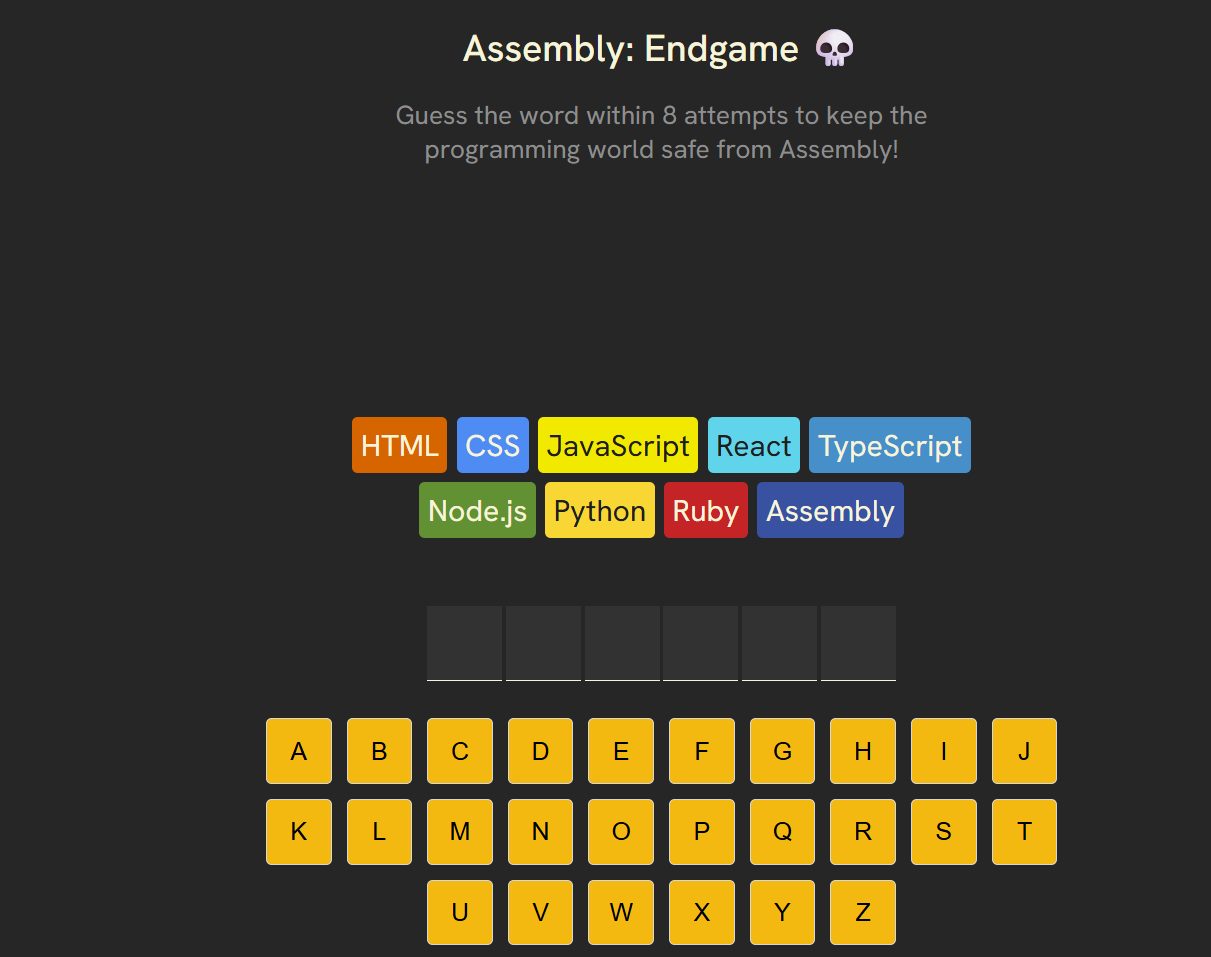
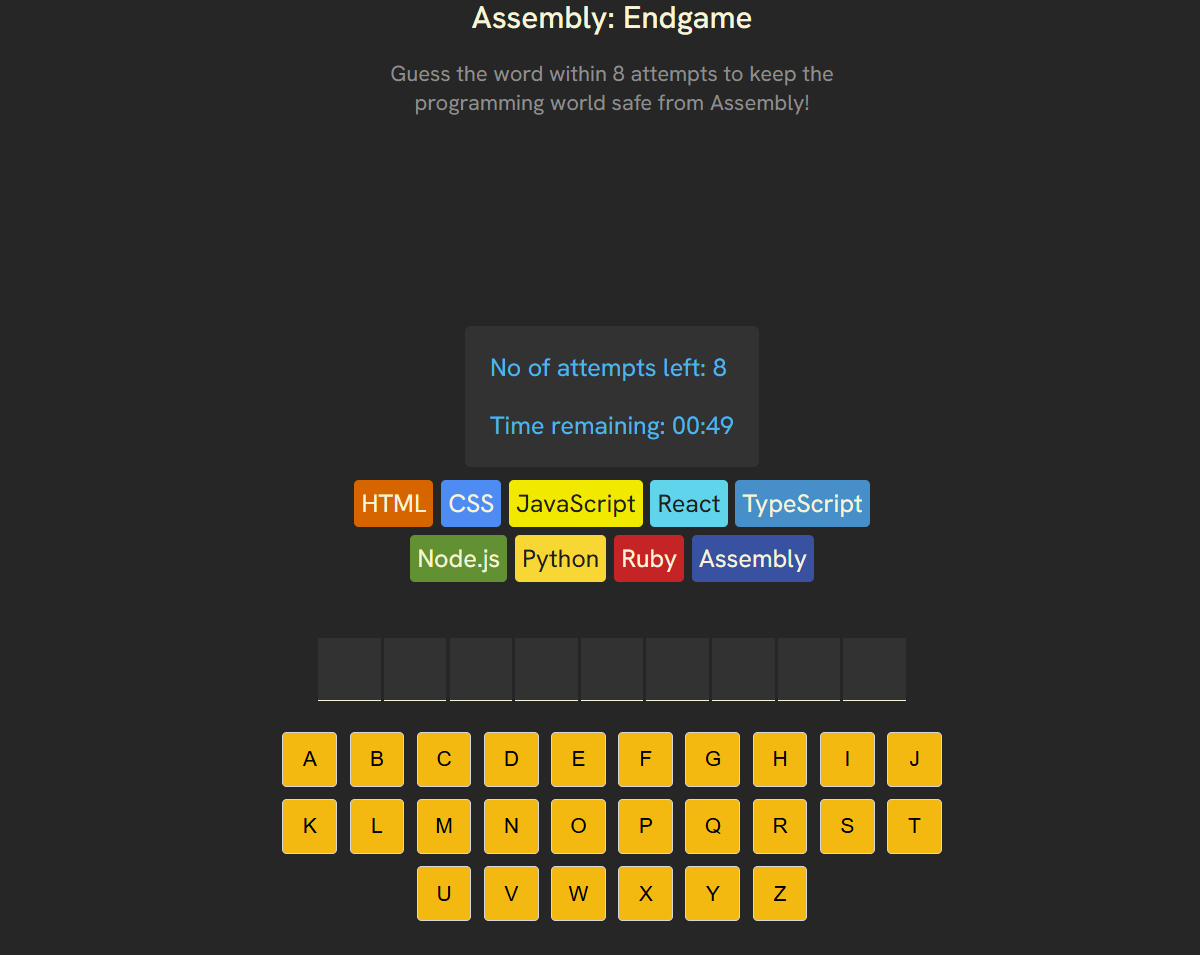
added new features

diff --git a/App.jsx b/App.jsx
@@ -1,27 +1,19 @@
-import { useState } from "react"
+import { useState, useEffect } from "react"
 import { clsx } from "clsx"
 import { languages } from "./languages"
 import { getFarewellText, getRandomWord } from "./utils"
 import Confetti from "react-confetti"
 
-/**
- * Backlog:
- * 
- * ✅ Farewell messages in status section
- * ✅ Disable the keyboard when the game is over
- * ✅ Fix a11y issues
- * ✅ Choose a random word from a list of words
- * ✅ Make the New Game button reset the game
- * ✅ Reveal what the word was if the user loses the game
- * ✅ Confetti drop when the user wins
- * 
- * Challenge: 🎊🎊🎊🎊🎊
- */
+
 
 export default function AssemblyEndgame() {
+    const TOTAL_TIME = 1 * 60;
+
     // State values
     const [currentWord, setCurrentWord] = useState(() => getRandomWord())
     const [guessedLetters, setGuessedLetters] = useState([])
+    const [remainingTime, setRemainingTime] = useState(TOTAL_TIME);
+    const [gameOver, setGameOver]  = useState(false);
 
     // Derived values
     const numGuessesLeft = languages.length - 1
@@ -29,13 +21,35 @@ export default function AssemblyEndgame() {
         guessedLetters.filter(letter => !currentWord.includes(letter)).length
     const isGameWon =
         currentWord.split("").every(letter => guessedLetters.includes(letter))
-    const isGameLost = wrongGuessCount >= numGuessesLeft
+    const isGameLost = wrongGuessCount >= numGuessesLeft || gameOver;
     const isGameOver = isGameWon || isGameLost
     const lastGuessedLetter = guessedLetters[guessedLetters.length - 1]
     const isLastGuessIncorrect = lastGuessedLetter && !currentWord.includes(lastGuessedLetter)
 
     // Static values
     const alphabet = "abcdefghijklmnopqrstuvwxyz"
+    
+
+ useEffect(() => {
+    setRemainingTime(TOTAL_TIME);
+    setGameOver(false);
+
+    const id = setInterval(() => {
+      setRemainingTime(prev => {
+        if (prev <= 1) {
+          clearInterval(id);
+          setGameOver(true);       // <-- mark the game over in state
+          return 0;
+        }
+        return prev - 1;
+      });
+    }, 1000);
+
+    return () => clearInterval(id);
+  }, [currentWord]); 
+            
+const minutes = String(Math.floor(remainingTime / 60)).padStart(2, "0");
+const seconds = String(remainingTime % 60).padStart(2, "0");
 
     function addGuessedLetter(letter) {
         setGuessedLetters(prevLetters =>
@@ -148,7 +162,7 @@ export default function AssemblyEndgame() {
                     />
             }
             <header>
-                <h1>Assembly: Endgame 💀</h1>
+                <h1>Assembly: Endgame </h1>
                 <p>Guess the word within 8 attempts to keep the
                 programming world safe from Assembly!</p>
             </header>
@@ -160,6 +174,11 @@ export default function AssemblyEndgame() {
             >
                 {renderGameStatus()}
             </section>
+
+            <section className="attempts">
+                <p>No of attempts left: {numGuessesLeft - wrongGuessCount}</p>
+                <p>Time remaining: {minutes}:{seconds}</p>
+           </section>
 
             <section className="language-chips">
                 {languageElements}

diff --git a/index.css b/index.css
@@ -179,3 +179,11 @@ button.new-game {
     white-space: nowrap;
     border: 0;
 }
+
+.attempts{
+    background-color: #323232;
+    color: #11B5E5;
+    padding: 0 1em;
+    border-radius: 4px;
+    margin-bottom:.5em;
+}
